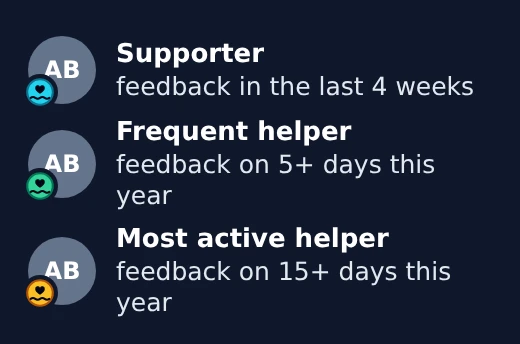
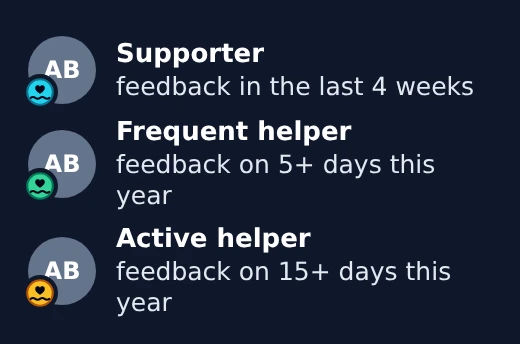
Supporter: Label "Badge" auf der Profilseite, Stufe 3 heisst "Active helper"
Claude-Session: https://claude.ai/code/session_01SwpsW3PioXLbF9Wo2iJrfq

Changed region(s): [[0.2154, 0.6395, 0.7692, 0.7558]]

diff --git a/android/app/src/main/java/org/pumpfoil/app/I18nNeu.kt b/android/app/src/main/java/org/pumpfoil/app/I18nNeu.kt
@@ -295,10 +295,11 @@ internal val NEU: Map<String, Map<String, String>> = mapOf(
     "rate.rated" to mapOf("de" to "Deine Bewertung", "gsw" to "Dini Bewärtig", "de-AT" to "Deine Bewertung", "en" to "Your rating", "fr" to "Ton évaluation", "it" to "La tua valutazione", "es" to "Tu valoración", "fi" to "Arviosi", "nl" to "Jouw beoordeling", "cs" to "Tvoje hodnocení", "pl" to "Twoja ocena", "pt" to "Sua avaliação", "pt-PT" to "A tua avaliação", "ja" to "あなたの評価", "zh" to "你的评价", "ru" to "Твоя оценка", "id" to "Penilaianmu", "nb" to "Din vurdering"),
     "sup.badge" to mapOf("de" to "Danke für wertvolles Feedback in den letzten 4 Wochen", "gsw" to "Merci für wertvolls Feedback i de letschte 4 Wuche", "de-AT" to "Danke für wertvolles Feedback in den letzten 4 Wochen", "en" to "Thanks for valuable feedback within the last 4 weeks", "fr" to "Merci pour tes retours précieux ces 4 dernières semaines", "it" to "Grazie per il prezioso feedback nelle ultime 4 settimane", "es" to "Gracias por tus valiosos comentarios en las últimas 4 semanas", "fi" to "Kiitos arvokkaasta palautteesta viimeisten 4 viikon aikana", "nl" to "Bedankt voor waardevolle feedback in de afgelopen 4 weken", "cs" to "Díky za cennou zpětnou vazbu za poslední 4 týdny", "pl" to "Dzięki za cenne opinie w ostatnich 4 tygodniach", "pt" to "Obrigado pelo feedback valioso nas últimas 4 semanas", "pt-PT" to "Obrigado pelo feedback valioso nas últimas 4 semanas", "ja" to "この4週間、貴重なフィードバックをありがとう", "zh" to "感谢你在过去 4 周提供的宝贵反馈", "ru" to "Спасибо за ценные отзывы за последние 4 недели", "id" to "Terima kasih atas masukan berharga dalam 4 minggu terakhir", "nb" to "Takk for verdifulle tilbakemeldinger de siste 4 ukene"),
     "sup.level2" to mapOf("de" to "fleißige Hilfe", "gsw" to "flissigi Hilf", "de-AT" to "fleißige Hilfe", "en" to "frequent helper", "fr" to "aide régulière", "it" to "aiuto assiduo", "es" to "ayuda frecuente", "fi" to "ahkera auttaja", "nl" to "vaste helper", "cs" to "pilný pomocník", "pl" to "częsty pomocnik", "pt" to "ajuda frequente", "pt-PT" to "ajuda frequente", "ja" to "いつも協力してくれる人", "zh" to "热心帮手", "ru" to "частый помощник", "id" to "penolong setia", "nb" to "ivrig hjelper"),
-    "sup.level3" to mapOf("de" to "eine unserer aktivsten Hilfen", "gsw" to "eini vo eusne aktivste Hilfe", "de-AT" to "eine unserer aktivsten Hilfen", "en" to "one of our most active helpers", "fr" to "l'une de nos aides les plus actives", "it" to "uno dei nostri aiuti più attivi", "es" to "una de nuestras ayudas más activas", "fi" to "yksi aktiivisimmista auttajistamme", "nl" to "een van onze actiefste helpers", "cs" to "jeden z našich nejaktivnějších pomocníků", "pl" to "jeden z naszych najaktywniejszych pomocników", "pt" to "uma das nossas ajudas mais ativas", "pt-PT" to "uma das nossas ajudas mais ativas", "ja" to "最も活発な協力者のひとり", "zh" to "最活跃的帮手之一", "ru" to "один из самых активных помощников", "id" to "salah satu penolong paling aktif", "nb" to "en av våre mest aktive hjelpere"),
+    "sup.level3" to mapOf("de" to "aktive Hilfe", "gsw" to "aktivi Hilf", "de-AT" to "aktive Hilfe", "en" to "active helper", "fr" to "aide active", "it" to "aiuto attivo", "es" to "ayuda activa", "fi" to "aktiivinen auttaja", "nl" to "actieve helper", "cs" to "aktivní pomocník", "pl" to "aktywny pomocnik", "pt" to "ajuda ativa", "pt-PT" to "ajuda ativa", "ja" to "積極的な協力者", "zh" to "积极帮手", "ru" to "активный помощник", "id" to "penolong aktif", "nb" to "aktiv hjelper"),
+    "sup.label" to mapOf("de" to "Badge", "gsw" to "Badge", "de-AT" to "Badge", "en" to "Badge", "fr" to "Badge", "it" to "Badge", "es" to "Insignia", "fi" to "Merkki", "nl" to "Badge", "cs" to "Odznak", "pl" to "Odznaka", "pt" to "Selo", "pt-PT" to "Distintivo", "ja" to "バッジ", "zh" to "徽章", "ru" to "Значок", "id" to "Lencana", "nb" to "Merke"),
     "sup.profile1" to mapOf("de" to "Hat uns in den letzten 4 Wochen mit Feedback geholfen", "gsw" to "Het eus i de letschte 4 Wuche mit Feedback ghulfe", "de-AT" to "Hat uns in den letzten 4 Wochen mit Feedback geholfen", "en" to "Helped us with feedback in the last 4 weeks", "fr" to "Nous a aidés avec ses retours ces 4 dernières semaines", "it" to "Ci ha aiutato con il suo feedback nelle ultime 4 settimane", "es" to "Nos ayudó con sus comentarios en las últimas 4 semanas", "fi" to "Auttoi meitä palautteella viimeisten 4 viikon aikana", "nl" to "Hielp ons met feedback in de afgelopen 4 weken", "cs" to "Pomohl nám zpětnou vazbou za poslední 4 týdny", "pl" to "Pomógł nam swoimi opiniami w ostatnich 4 tygodniach", "pt" to "Nos ajudou com feedback nas últimas 4 semanas", "pt-PT" to "Ajudou-nos com feedback nas últimas 4 semanas", "ja" to "この4週間にフィードバックで協力してくれました", "zh" to "在过去 4 周提供过反馈", "ru" to "Помог нам отзывами за последние 4 недели", "id" to "Membantu kami dengan masukan dalam 4 minggu terakhir", "nb" to "Hjalp oss med tilbakemeldinger de siste 4 ukene"),
     "sup.profile2" to mapOf("de" to "Fleißige Hilfe: Feedback an 5 oder mehr Tagen in diesem Jahr, zuletzt in den letzten 4 Wochen", "gsw" to "Flissigi Hilf: Feedback a 5 oder meh Täg i dem Johr, zletscht i de letschte 4 Wuche", "de-AT" to "Fleißige Hilfe: Feedback an 5 oder mehr Tagen in diesem Jahr, zuletzt in den letzten 4 Wochen", "en" to "Frequent helper: feedback on 5 or more days this year, most recently in the last 4 weeks", "fr" to "Aide régulière : des retours sur 5 jours ou plus cette année, dont les 4 dernières semaines", "it" to "Aiuto assiduo: feedback in 5 o più giorni quest'anno, l'ultimo nelle ultime 4 settimane", "es" to "Ayuda frecuente: comentarios en 5 o más días este año, el último en las últimas 4 semanas", "fi" to "Ahkera auttaja: palautetta vähintään 5 päivänä tänä vuonna, viimeksi viimeisten 4 viikon aikana", "nl" to "Vaste helper: feedback op 5 of meer dagen dit jaar, het laatst in de afgelopen 4 weken", "cs" to "Pilný pomocník: zpětná vazba v 5 a více dnech letos, naposledy za poslední 4 týdny", "pl" to "Częsty pomocnik: opinie w 5 lub więcej dni w tym roku, ostatnio w ostatnich 4 tygodniach", "pt" to "Ajuda frequente: feedback em 5 ou mais dias neste ano, o último nas últimas 4 semanas", "pt-PT" to "Ajuda frequente: feedback em 5 ou mais dias este ano, o último nas últimas 4 semanas", "ja" to "いつも協力してくれる人：今年5日以上フィードバック、直近は4週間以内", "zh" to "热心帮手：今年有 5 天或以上提供反馈，最近一次在过去 4 周内", "ru" to "Частый помощник: отзывы в 5 и более дней в этом году, последний за последние 4 недели", "id" to "Penolong setia: masukan pada 5 hari atau lebih tahun ini, terakhir dalam 4 minggu terakhir", "nb" to "Ivrig hjelper: tilbakemeldinger på 5 eller flere dager i år, sist de siste 4 ukene"),
-    "sup.profile3" to mapOf("de" to "Eine unserer aktivsten Hilfen: Feedback an 15 oder mehr Tagen in diesem Jahr, zuletzt in den letzten 4 Wochen", "gsw" to "Eini vo eusne aktivste Hilfe: Feedback a 15 oder meh Täg i dem Johr, zletscht i de letschte 4 Wuche", "de-AT" to "Eine unserer aktivsten Hilfen: Feedback an 15 oder mehr Tagen in diesem Jahr, zuletzt in den letzten 4 Wochen", "en" to "One of our most active helpers: feedback on 15 or more days this year, most recently in the last 4 weeks", "fr" to "L'une de nos aides les plus actives : des retours sur 15 jours ou plus cette année, dont les 4 dernières semaines", "it" to "Uno dei nostri aiuti più attivi: feedback in 15 o più giorni quest'anno, l'ultimo nelle ultime 4 settimane", "es" to "Una de nuestras ayudas más activas: comentarios en 15 o más días este año, el último en las últimas 4 semanas", "fi" to "Yksi aktiivisimmista auttajistamme: palautetta vähintään 15 päivänä tänä vuonna, viimeksi viimeisten 4 viikon aikana", "nl" to "Een van onze actiefste helpers: feedback op 15 of meer dagen dit jaar, het laatst in de afgelopen 4 weken", "cs" to "Jeden z našich nejaktivnějších pomocníků: zpětná vazba v 15 a více dnech letos, naposledy za poslední 4 týdny", "pl" to "Jeden z naszych najaktywniejszych pomocników: opinie w 15 lub więcej dni w tym roku, ostatnio w ostatnich 4 tygodniach", "pt" to "Uma das nossas ajudas mais ativas: feedback em 15 ou mais dias neste ano, o último nas últimas 4 semanas", "pt-PT" to "Uma das nossas ajudas mais ativas: feedback em 15 ou mais dias este ano, o último nas últimas 4 semanas", "ja" to "最も活発な協力者のひとり：今年15日以上フィードバック、直近は4週間以内", "zh" to "最活跃的帮手之一：今年有 15 天或以上提供反馈，最近一次在过去 4 周内", "ru" to "Один из самых активных помощников: отзывы в 15 и более дней в этом году, последний за последние 4 недели", "id" to "Salah satu penolong paling aktif: masukan pada 15 hari atau lebih tahun ini, terakhir dalam 4 minggu terakhir", "nb" to "En av våre mest aktive hjelpere: tilbakemeldinger på 15 eller flere dager i år, sist de siste 4 ukene"),
+    "sup.profile3" to mapOf("de" to "Aktive Hilfe: Feedback an 15 oder mehr Tagen in diesem Jahr, zuletzt in den letzten 4 Wochen", "gsw" to "Aktivi Hilf: Feedback a 15 oder meh Täg i dem Johr, zletscht i de letschte 4 Wuche", "de-AT" to "Aktive Hilfe: Feedback an 15 oder mehr Tagen in diesem Jahr, zuletzt in den letzten 4 Wochen", "en" to "Active helper: feedback on 15 or more days this year, most recently in the last 4 weeks", "fr" to "Aide active: des retours sur 15 jours ou plus cette année, dont les 4 dernières semaines", "it" to "Aiuto attivo: feedback in 15 o più giorni quest'anno, l'ultimo nelle ultime 4 settimane", "es" to "Ayuda activa: comentarios en 15 o más días este año, el último en las últimas 4 semanas", "fi" to "Aktiivinen auttaja: palautetta vähintään 15 päivänä tänä vuonna, viimeksi viimeisten 4 viikon aikana", "nl" to "Actieve helper: feedback op 15 of meer dagen dit jaar, het laatst in de afgelopen 4 weken", "cs" to "Aktivní pomocník: zpětná vazba v 15 a více dnech letos, naposledy za poslední 4 týdny", "pl" to "Aktywny pomocnik: opinie w 15 lub więcej dni w tym roku, ostatnio w ostatnich 4 tygodniach", "pt" to "Ajuda ativa: feedback em 15 ou mais dias neste ano, o último nas últimas 4 semanas", "pt-PT" to "Ajuda ativa: feedback em 15 ou mais dias este ano, o último nas últimas 4 semanas", "ja" to "積極的な協力者：今年15日以上フィードバック、直近は4週間以内", "zh" to "积极帮手：今年有 15 天或以上提供反馈，最近一次在过去 4 周内", "ru" to "Активный помощник: отзывы в 15 и более дней в этом году, последний за последние 4 недели", "id" to "Penolong aktif: masukan pada 15 hari atau lebih tahun ini, terakhir dalam 4 minggu terakhir", "nb" to "Aktiv hjelper: tilbakemeldinger på 15 eller flere dager i år, sist de siste 4 ukene"),
     "rate.recheckTile" to mapOf("de" to "Bitte neu bewerten", "gsw" to "Bitte nomal bewärte", "de-AT" to "Bitte neu bewerten", "en" to "Please rate again", "fr" to "À réévaluer", "it" to "Valuta di nuovo", "es" to "Valora de nuevo", "fi" to "Arvioi uudelleen", "nl" to "Beoordeel opnieuw", "cs" to "Ohodnoť znovu", "pl" to "Oceń ponownie", "pt" to "Avalie de novo", "pt-PT" to "Avalia de novo", "ja" to "もう一度評価して", "zh" to "请重新评价", "ru" to "Оцени заново", "id" to "Nilai lagi", "nb" to "Vurder på nytt"),
     "rate.recheck" to mapOf("de" to "Wir haben uns deine Bewertung angesehen und etwas verbessert. Bitte prüf die Auswertung und bewerte sie neu.", "gsw" to "Mir händ eus dini Bewärtig aagluegt und öppis verbesseret. Bitte prüef d Uswärtig und bewärt sie nomal.", "de-AT" to "Wir haben uns deine Bewertung angeschaut und etwas verbessert. Bitte prüf die Auswertung und bewerte sie neu.", "en" to "We looked into your rating and improved something. Please check the analysis and rate it again.", "fr" to "Nous avons examiné ton évaluation et amélioré quelque chose. Vérifie l'analyse et évalue-la à nouveau.", "it" to "Abbiamo esaminato la tua valutazione e migliorato qualcosa. Controlla l'analisi e valutala di nuovo.", "es" to "Hemos revisado tu valoración y mejorado algo. Comprueba el análisis y vuelve a valorarlo.", "fi" to "Kävimme arviosi läpi ja paransimme jotain. Tarkista analyysi ja arvioi se uudelleen.", "nl" to "We hebben je beoordeling bekeken en iets verbeterd. Controleer de analyse en beoordeel hem opnieuw.", "cs" to "Podívali jsme se na tvoje hodnocení a něco jsme vylepšili. Zkontroluj prosím analýzu a ohodnoť ji znovu.", "pl" to "Przejrzeliśmy twoją ocenę i coś poprawiliśmy. Sprawdź analizę i oceń ją ponownie.", "pt" to "Analisamos sua avaliação e melhoramos algo. Confira a análise e avalie de novo.", "pt-PT" to "Analisámos a tua avaliação e melhorámos algo. Verifica a análise e avalia-a de novo.", "ja" to "評価を確認し、改善しました。分析を確認して、もう一度評価してください。", "zh" to "我们查看了你的评价并做了改进。请检查分析结果并重新评价。", "ru" to "Мы посмотрели твою оценку и кое-что улучшили. Проверь анализ и оцени его заново.", "id" to "Kami sudah melihat penilaianmu dan memperbaiki sesuatu. Silakan cek analisisnya dan nilai lagi.", "nb" to "Vi har sett på vurderingen din og forbedret noe. Sjekk analysen og vurder den på nytt."),
     "rate.runs" to mapOf("de" to "Läufe", "gsw" to "Läuf", "de-AT" to "Läufe", "en" to "Runs", "fr" to "Runs", "it" to "Run", "es" to "Runs", "fi" to "Ajot", "nl" to "Runs", "cs" to "Jízdy", "pl" to "Przejazdy", "pt" to "Voltas", "pt-PT" to "Voltas", "ja" to "ラン", "zh" to "航段", "ru" to "Заезды", "id" to "Run", "nb" to "Runs"),

diff --git a/watch-apple/Sources-iOS/Loc.swift b/watch-apple/Sources-iOS/Loc.swift
@@ -4798,8 +4798,9 @@ static let nlOverlay: [String: String] = {
     private static let _neu6_rate_pumps_weiss_nicht: [String: String] = ["de": "weiß nicht", "gsw": "weiss nöd", "de-AT": "weiß nicht", "en": "don't know", "fr": "je ne sais pas", "it": "non so", "es": "no lo sé", "fi": "en tiedä", "nl": "weet ik niet", "cs": "nevím", "pl": "nie wiem", "pt": "não sei", "pt-PT": "não sei", "ja": "わからない", "zh": "不知道", "ru": "не знаю", "id": "tidak tahu", "nb": "vet ikke"]
     private static let _neu6_rate_pumps_wenig: [String: String] = ["de": "zu wenige", "gsw": "z wenig", "de-AT": "zu wenige", "en": "too few", "fr": "trop peu", "it": "troppo pochi", "es": "muy pocos", "fi": "liian vähän", "nl": "te weinig", "cs": "příliš málo", "pl": "za mało", "pt": "poucos demais", "pt-PT": "demasiado poucos", "ja": "少なすぎる", "zh": "太少", "ru": "слишком мало", "id": "terlalu sedikit", "nb": "for få"]
     private static let _neu6_rate_rated: [String: String] = ["de": "Deine Bewertung", "gsw": "Dini Bewärtig", "de-AT": "Deine Bewertung", "en": "Your rating", "fr": "Ton évaluation", "it": "La tua valutazione", "es": "Tu valoración", "fi": "Arviosi", "nl": "Jouw beoordeling", "cs": "Tvoje hodnocení", "pl": "Twoja ocena", "pt": "Sua avaliação", "pt-PT": "A tua avaliação", "ja": "あなたの評価", "zh": "你的评价", "ru": "Твоя оценка", "id": "Penilaianmu", "nb": "Din vurdering"]
-    private static let _neu7_sup_level3: [String: String] = ["de": "eine unserer aktivsten Hilfen", "gsw": "eini vo eusne aktivste Hilfe", "de-AT": "eine unserer aktivsten Hilfen", "en": "one of our most active helpers", "fr": "l'une de nos aides les plus actives", "it": "uno dei nostri aiuti più attivi", "es": "una de nuestras ayudas más activas", "fi": "yksi aktiivisimmista auttajistamme", "nl": "een van onze actiefste helpers", "cs": "jeden z našich nejaktivnějších pomocníků", "pl": "jeden z naszych najaktywniejszych pomocników", "pt": "uma das nossas ajudas mais ativas", "pt-PT": "uma das nossas ajudas mais ativas", "ja": "最も活発な協力者のひとり", "zh": "最活跃的帮手之一", "ru": "один из самых активных помощников", "id": "salah satu penolong paling aktif", "nb": "en av våre mest aktive hjelpere"]
-    private static let _neu7_sup_profile3: [String: String] = ["de": "Eine unserer aktivsten Hilfen: Feedback an 15 oder mehr Tagen in diesem Jahr, zuletzt in den letzten 4 Wochen", "gsw": "Eini vo eusne aktivste Hilfe: Feedback a 15 oder meh Täg i dem Johr, zletscht i de letschte 4 Wuche", "de-AT": "Eine unserer aktivsten Hilfen: Feedback an 15 oder mehr Tagen in diesem Jahr, zuletzt in den letzten 4 Wochen", "en": "One of our most active helpers: feedback on 15 or more days this year, most recently in the last 4 weeks", "fr": "L'une de nos aides les plus actives : des retours sur 15 jours ou plus cette année, dont les 4 dernières semaines", "it": "Uno dei nostri aiuti più attivi: feedback in 15 o più giorni quest'anno, l'ultimo nelle ultime 4 settimane", "es": "Una de nuestras ayudas más activas: comentarios en 15 o más días este año, el último en las últimas 4 semanas", "fi": "Yksi aktiivisimmista auttajistamme: palautetta vähintään 15 päivänä tänä vuonna, viimeksi viimeisten 4 viikon aikana", "nl": "Een van onze actiefste helpers: feedback op 15 of meer dagen dit jaar, het laatst in de afgelopen 4 weken", "cs": "Jeden z našich nejaktivnějších pomocníků: zpětná vazba v 15 a více dnech letos, naposledy za poslední 4 týdny", "pl": "Jeden z naszych najaktywniejszych pomocników: opinie w 15 lub więcej dni w tym roku, ostatnio w ostatnich 4 tygodniach", "pt": "Uma das nossas ajudas mais ativas: feedback em 15 ou mais dias neste ano, o último nas últimas 4 semanas", "pt-PT": "Uma das nossas ajudas mais ativas: feedback em 15 ou mais dias este ano, o último nas últimas 4 semanas", "ja": "最も活発な協力者のひとり：今年15日以上フィードバック、直近は4週間以内", "zh": "最活跃的帮手之一：今年有 15 天或以上提供反馈，最近一次在过去 4 周内", "ru": "Один из самых активных помощников: отзывы в 15 и более дней в этом году, последний за последние 4 недели", "id": "Salah satu penolong paling aktif: masukan pada 15 hari atau lebih tahun ini, terakhir dalam 4 minggu terakhir", "nb": "En av våre mest aktive hjelpere: tilbakemeldinger på 15 eller flere dager i år, sist de siste 4 ukene"]
+    private static let _neu7_sup_level3: [String: String] = ["de": "aktive Hilfe", "gsw": "aktivi Hilf", "de-AT": "aktive Hilfe", "en": "active helper", "fr": "aide active", "it": "aiuto attivo", "es": "ayuda activa", "fi": "aktiivinen auttaja", "nl": "actieve helper", "cs": "aktivní pomocník", "pl": "aktywny pomocnik", "pt": "ajuda ativa", "pt-PT": "ajuda ativa", "ja": "積極的な協力者", "zh": "积极帮手", "ru": "активный помощник", "id": "penolong aktif", "nb": "aktiv hjelper"]
+    private static let _neu7_sup_label: [String: String] = ["de": "Badge", "gsw": "Badge", "de-AT": "Badge", "en": "Badge", "fr": "Badge", "it": "Badge", "es": "Insignia", "fi": "Merkki", "nl": "Badge", "cs": "Odznak", "pl": "Odznaka", "pt": "Selo", "pt-PT": "Distintivo", "ja": "バッジ", "zh": "徽章", "ru": "Значок", "id": "Lencana", "nb": "Merke"]
+    private static let _neu7_sup_profile3: [String: String] = ["de": "Aktive Hilfe: Feedback an 15 oder mehr Tagen in diesem Jahr, zuletzt in den letzten 4 Wochen", "gsw": "Aktivi Hilf: Feedback a 15 oder meh Täg i dem Johr, zletscht i de letschte 4 Wuche", "de-AT": "Aktive Hilfe: Feedback an 15 oder mehr Tagen in diesem Jahr, zuletzt in den letzten 4 Wochen", "en": "Active helper: feedback on 15 or more days this year, most recently in the last 4 weeks", "fr": "Aide active: des retours sur 15 jours ou plus cette année, dont les 4 dernières semaines", "it": "Aiuto attivo: feedback in 15 o più giorni quest'anno, l'ultimo nelle ultime 4 settimane", "es": "Ayuda activa: comentarios en 15 o más días este año, el último en las últimas 4 semanas", "fi": "Aktiivinen auttaja: palautetta vähintään 15 päivänä tänä vuonna, viimeksi viimeisten 4 viikon aikana", "nl": "Actieve helper: feedback op 15 of meer dagen dit jaar, het laatst in de afgelopen 4 weken", "cs": "Aktivní pomocník: zpětná vazba v 15 a více dnech letos, naposledy za poslední 4 týdny", "pl": "Aktywny pomocnik: opinie w 15 lub więcej dni w tym roku, ostatnio w ostatnich 4 tygodniach", "pt": "Ajuda ativa: feedback em 15 ou mais dias neste ano, o último nas últimas 4 semanas", "pt-PT": "Ajuda ativa: feedback em 15 ou mais dias este ano, o último nas últimas 4 semanas", "ja": "積極的な協力者：今年15日以上フィードバック、直近は4週間以内", "zh": "积极帮手：今年有 15 天或以上提供反馈，最近一次在过去 4 周内", "ru": "Активный помощник: отзывы в 15 и более дней в этом году, последний за последние 4 недели", "id": "Penolong aktif: masukan pada 15 hari atau lebih tahun ini, terakhir dalam 4 minggu terakhir", "nb": "Aktiv hjelper: tilbakemeldinger på 15 eller flere dager i år, sist de siste 4 ukene"]
     private static let _neu7_sup_profile2: [String: String] = ["de": "Fleißige Hilfe: Feedback an 5 oder mehr Tagen in diesem Jahr, zuletzt in den letzten 4 Wochen", "gsw": "Flissigi Hilf: Feedback a 5 oder meh Täg i dem Johr, zletscht i de letschte 4 Wuche", "de-AT": "Fleißige Hilfe: Feedback an 5 oder mehr Tagen in diesem Jahr, zuletzt in den letzten 4 Wochen", "en": "Frequent helper: feedback on 5 or more days this year, most recently in the last 4 weeks", "fr": "Aide régulière : des retours sur 5 jours ou plus cette année, dont les 4 dernières semaines", "it": "Aiuto assiduo: feedback in 5 o più giorni quest'anno, l'ultimo nelle ultime 4 settimane", "es": "Ayuda frecuente: comentarios en 5 o más días este año, el último en las últimas 4 semanas", "fi": "Ahkera auttaja: palautetta vähintään 5 päivänä tänä vuonna, viimeksi viimeisten 4 viikon aikana", "nl": "Vaste helper: feedback op 5 of meer dagen dit jaar, het laatst in de afgelopen 4 weken", "cs": "Pilný pomocník: zpětná vazba v 5 a více dnech letos, naposledy za poslední 4 týdny", "pl": "Częsty pomocnik: opinie w 5 lub więcej dni w tym roku, ostatnio w ostatnich 4 tygodniach", "pt": "Ajuda frequente: feedback em 5 ou mais dias neste ano, o último nas últimas 4 semanas", "pt-PT": "Ajuda frequente: feedback em 5 ou mais dias este ano, o último nas últimas 4 semanas", "ja": "いつも協力してくれる人：今年5日以上フィードバック、直近は4週間以内", "zh": "热心帮手：今年有 5 天或以上提供反馈，最近一次在过去 4 周内", "ru": "Частый помощник: отзывы в 5 и более дней в этом году, последний за последние 4 недели", "id": "Penolong setia: masukan pada 5 hari atau lebih tahun ini, terakhir dalam 4 minggu terakhir", "nb": "Ivrig hjelper: tilbakemeldinger på 5 eller flere dager i år, sist de siste 4 ukene"]
     private static let _neu7_sup_profile1: [String: String] = ["de": "Hat uns in den letzten 4 Wochen mit Feedback geholfen", "gsw": "Het eus i de letschte 4 Wuche mit Feedback ghulfe", "de-AT": "Hat uns in den letzten 4 Wochen mit Feedback geholfen", "en": "Helped us with feedback in the last 4 weeks", "fr": "Nous a aidés avec ses retours ces 4 dernières semaines", "it": "Ci ha aiutato con il suo feedback nelle ultime 4 settimane", "es": "Nos ayudó con sus comentarios en las últimas 4 semanas", "fi": "Auttoi meitä palautteella viimeisten 4 viikon aikana", "nl": "Hielp ons met feedback in de afgelopen 4 weken", "cs": "Pomohl nám zpětnou vazbou za poslední 4 týdny", "pl": "Pomógł nam swoimi opiniami w ostatnich 4 tygodniach", "pt": "Nos ajudou com feedback nas últimas 4 semanas", "pt-PT": "Ajudou-nos com feedback nas últimas 4 semanas", "ja": "この4週間にフィードバックで協力してくれました", "zh": "在过去 4 周提供过反馈", "ru": "Помог нам отзывами за последние 4 недели", "id": "Membantu kami dengan masukan dalam 4 minggu terakhir", "nb": "Hjalp oss med tilbakemeldinger de siste 4 ukene"]
     private static let _neu7_sup_level2: [String: String] = ["de": "fleißige Hilfe", "gsw": "flissigi Hilf", "de-AT": "fleißige Hilfe", "en": "frequent helper", "fr": "aide régulière", "it": "aiuto assiduo", "es": "ayuda frecuente", "fi": "ahkera auttaja", "nl": "vaste helper", "cs": "pilný pomocník", "pl": "częsty pomocnik", "pt": "ajuda frequente", "pt-PT": "ajuda frequente", "ja": "いつも協力してくれる人", "zh": "热心帮手", "ru": "частый помощник", "id": "penolong setia", "nb": "ivrig hjelper"]
@@ -4841,6 +4842,7 @@ static let nlOverlay: [String: String] = {
         "rate.pumps.wenig": _neu6_rate_pumps_wenig,
         "rate.rated": _neu6_rate_rated,
         "sup.level3": _neu7_sup_level3,
+        "sup.label": _neu7_sup_label,
         "sup.profile3": _neu7_sup_profile3,
         "sup.profile2": _neu7_sup_profile2,
         "sup.profile1": _neu7_sup_profile1,

diff --git a/web/src/i18n/locales/ru.ts b/web/src/i18n/locales/ru.ts
@@ -950,10 +950,11 @@ const ru: Record<string, string> = {
   "presence.online": "В сети",
   "sup.badge": "Спасибо за ценные отзывы за последние 4 недели",
   "sup.level2": "частый помощник",
-  "sup.level3": "один из самых активных помощников",
+  "sup.level3": "активный помощник",
+  "sup.label": "Значок",
   "sup.profile1": "Помог нам отзывами за последние 4 недели",
   "sup.profile2": "Частый помощник: отзывы в 5 и более дней в этом году, последний за последние 4 недели",
-  "sup.profile3": "Один из самых активных помощников: отзывы в 15 и более дней в этом году, последний за последние 4 недели",
+  "sup.profile3": "Активный помощник: отзывы в 15 и более дней в этом году, последний за последние 4 недели",
   "online.title": "Значок «в сети»",
   "online.hint": "Пока у тебя открыто приложение или сайт, другие видят маленькую зелёную точку на твоём фото профиля.",
   "online.switch": "Показывать другим, когда я в сети",

diff --git a/web/src/i18n/locales/ja.ts b/web/src/i18n/locales/ja.ts
@@ -950,10 +950,11 @@ const ja: Record<string, string> = {
   "presence.online": "オンライン",
   "sup.badge": "この4週間、貴重なフィードバックをありがとう",
   "sup.level2": "いつも協力してくれる人",
-  "sup.level3": "最も活発な協力者のひとり",
+  "sup.level3": "積極的な協力者",
+  "sup.label": "バッジ",
   "sup.profile1": "この4週間にフィードバックで協力してくれました",
   "sup.profile2": "いつも協力してくれる人：今年5日以上フィードバック、直近は4週間以内",
-  "sup.profile3": "最も活発な協力者のひとり：今年15日以上フィードバック、直近は4週間以内",
+  "sup.profile3": "積極的な協力者：今年15日以上フィードバック、直近は4週間以内",
   "online.title": "オンライン表示",
   "online.hint": "アプリやサイトを開いている間、他の人にはプロフィール画像に小さな緑の点が表示されます。",
   "online.switch": "オンライン中であることを他の人に表示する",

diff --git a/web/src/i18n/locales/fi.ts b/web/src/i18n/locales/fi.ts
@@ -957,10 +957,11 @@ const fi: Record<string, string> = {
   "presence.online": "Paikalla",
   "sup.badge": "Kiitos arvokkaasta palautteesta viimeisten 4 viikon aikana",
   "sup.level2": "ahkera auttaja",
-  "sup.level3": "yksi aktiivisimmista auttajistamme",
+  "sup.level3": "aktiivinen auttaja",
+  "sup.label": "Merkki",
   "sup.profile1": "Auttoi meitä palautteella viimeisten 4 viikon aikana",
   "sup.profile2": "Ahkera auttaja: palautetta vähintään 5 päivänä tänä vuonna, viimeksi viimeisten 4 viikon aikana",
-  "sup.profile3": "Yksi aktiivisimmista auttajistamme: palautetta vähintään 15 päivänä tänä vuonna, viimeksi viimeisten 4 viikon aikana",
+  "sup.profile3": "Aktiivinen auttaja: palautetta vähintään 15 päivänä tänä vuonna, viimeksi viimeisten 4 viikon aikana",
   "online.title": "Paikalla-piste",
   "online.hint": "Kun sovellus tai sivusto on auki, muut näkevät pienen vihreän pisteen profiilikuvassasi.",
   "online.switch": "Näytä muille, kun olen paikalla",

diff --git a/web/src/i18n/locales/es.ts b/web/src/i18n/locales/es.ts
@@ -843,10 +843,11 @@ const es: Record<string, string> = {
   "presence.online": "En línea",
   "sup.badge": "Gracias por tus valiosos comentarios en las últimas 4 semanas",
   "sup.level2": "ayuda frecuente",
-  "sup.level3": "una de nuestras ayudas más activas",
+  "sup.level3": "ayuda activa",
+  "sup.label": "Insignia",
   "sup.profile1": "Nos ayudó con sus comentarios en las últimas 4 semanas",
   "sup.profile2": "Ayuda frecuente: comentarios en 5 o más días este año, el último en las últimas 4 semanas",
-  "sup.profile3": "Una de nuestras ayudas más activas: comentarios en 15 o más días este año, el último en las últimas 4 semanas",
+  "sup.profile3": "Ayuda activa: comentarios en 15 o más días este año, el último en las últimas 4 semanas",
   "online.title": "Punto en línea",
   "online.hint": "Mientras tengas la app o la web abiertas, los demás ven un pequeño punto verde en tu foto de perfil.",
   "online.switch": "Mostrar a los demás cuando estoy en línea",

diff --git a/web/src/i18n/locales/cs.ts b/web/src/i18n/locales/cs.ts
@@ -974,10 +974,11 @@ const cs: Record<string, string> = {
   "presence.online": "Online",
   "sup.badge": "Díky za cennou zpětnou vazbu za poslední 4 týdny",
   "sup.level2": "pilný pomocník",
-  "sup.level3": "jeden z našich nejaktivnějších pomocníků",
+  "sup.level3": "aktivní pomocník",
+  "sup.label": "Odznak",
   "sup.profile1": "Pomohl nám zpětnou vazbou za poslední 4 týdny",
   "sup.profile2": "Pilný pomocník: zpětná vazba v 5 a více dnech letos, naposledy za poslední 4 týdny",
-  "sup.profile3": "Jeden z našich nejaktivnějších pomocníků: zpětná vazba v 15 a více dnech letos, naposledy za poslední 4 týdny",
+  "sup.profile3": "Aktivní pomocník: zpětná vazba v 15 a více dnech letos, naposledy za poslední 4 týdny",
   "online.title": "Online tečka",
   "online.hint": "Dokud máš otevřenou aplikaci nebo web, ostatní vidí u tvého profilového obrázku malou zelenou tečku.",
   "online.switch": "Ukázat ostatním, když jsem online",

diff --git a/web/src/i18n/locales/pl.ts b/web/src/i18n/locales/pl.ts
@@ -1065,10 +1065,11 @@ const pl: Record<string, string> = {
   "presence.online": "Online",
   "sup.badge": "Dzięki za cenne opinie w ostatnich 4 tygodniach",
   "sup.level2": "częsty pomocnik",
-  "sup.level3": "jeden z naszych najaktywniejszych pomocników",
+  "sup.level3": "aktywny pomocnik",
+  "sup.label": "Odznaka",
   "sup.profile1": "Pomógł nam swoimi opiniami w ostatnich 4 tygodniach",
   "sup.profile2": "Częsty pomocnik: opinie w 5 lub więcej dni w tym roku, ostatnio w ostatnich 4 tygodniach",
-  "sup.profile3": "Jeden z naszych najaktywniejszych pomocników: opinie w 15 lub więcej dni w tym roku, ostatnio w ostatnich 4 tygodniach",
+  "sup.profile3": "Aktywny pomocnik: opinie w 15 lub więcej dni w tym roku, ostatnio w ostatnich 4 tygodniach",
   "online.title": "Kropka online",
   "online.hint": "Gdy masz otwartą aplikację lub stronę, inni widzą małą zieloną kropkę przy twoim zdjęciu profilowym.",
   "online.switch": "Pokazuj innym, kiedy jestem online",

diff --git a/web/src/i18n/locales/fr.ts b/web/src/i18n/locales/fr.ts
@@ -843,10 +843,11 @@ const fr: Record<string, string> = {
   "presence.online": "En ligne",
   "sup.badge": "Merci pour tes retours précieux ces 4 dernières semaines",
   "sup.level2": "aide régulière",
-  "sup.level3": "l'une de nos aides les plus actives",
+  "sup.level3": "aide active",
+  "sup.label": "Badge",
   "sup.profile1": "Nous a aidés avec ses retours ces 4 dernières semaines",
   "sup.profile2": "Aide régulière : des retours sur 5 jours ou plus cette année, dont les 4 dernières semaines",
-  "sup.profile3": "L'une de nos aides les plus actives : des retours sur 15 jours ou plus cette année, dont les 4 dernières semaines",
+  "sup.profile3": "Aide active: des retours sur 15 jours ou plus cette année, dont les 4 dernières semaines",
   "online.title": "Point en ligne",
   "online.hint": "Tant que l'appli ou le site est ouvert, les autres voient un petit point vert sur ta photo de profil.",
   "online.switch": "Montrer aux autres quand je suis en ligne",

diff --git a/web/src/i18n/locales/de-AT.ts b/web/src/i18n/locales/de-AT.ts
@@ -744,10 +744,11 @@ const deAT: Record<string, string> = {
   "presence.online": "Online",
   "sup.badge": "Danke für wertvolles Feedback in den letzten 4 Wochen",
   "sup.level2": "fleißige Hilfe",
-  "sup.level3": "eine unserer aktivsten Hilfen",
+  "sup.level3": "aktive Hilfe",
+  "sup.label": "Badge",
   "sup.profile1": "Hat uns in den letzten 4 Wochen mit Feedback geholfen",
   "sup.profile2": "Fleißige Hilfe: Feedback an 5 oder mehr Tagen in diesem Jahr, zuletzt in den letzten 4 Wochen",
-  "sup.profile3": "Eine unserer aktivsten Hilfen: Feedback an 15 oder mehr Tagen in diesem Jahr, zuletzt in den letzten 4 Wochen",
+  "sup.profile3": "Aktive Hilfe: Feedback an 15 oder mehr Tagen in diesem Jahr, zuletzt in den letzten 4 Wochen",
   "online.title": "Online-Punkt",
   "online.hint": "Solange du die App oder die Seite offen hast, sehen andere einen kleinen grünen Punkt an deinem Profilbild.",
   "online.switch": "Anderen zeigen, wenn ich online bin",

diff --git a/web/src/i18n/locales/de.ts b/web/src/i18n/locales/de.ts
@@ -1108,10 +1108,11 @@ const de: Record<string, string> = {
   "presence.online": "Online",
   "sup.badge": "Danke für wertvolles Feedback in den letzten 4 Wochen",
   "sup.level2": "fleißige Hilfe",
-  "sup.level3": "eine unserer aktivsten Hilfen",
+  "sup.level3": "aktive Hilfe",
+  "sup.label": "Badge",
   "sup.profile1": "Hat uns in den letzten 4 Wochen mit Feedback geholfen",
   "sup.profile2": "Fleißige Hilfe: Feedback an 5 oder mehr Tagen in diesem Jahr, zuletzt in den letzten 4 Wochen",
-  "sup.profile3": "Eine unserer aktivsten Hilfen: Feedback an 15 oder mehr Tagen in diesem Jahr, zuletzt in den letzten 4 Wochen",
+  "sup.profile3": "Aktive Hilfe: Feedback an 15 oder mehr Tagen in diesem Jahr, zuletzt in den letzten 4 Wochen",
   "online.title": "Online-Punkt",
   "online.hint": "Solange du die App oder die Seite offen hast, sehen andere einen kleinen grünen Punkt an deinem Profilbild.",
   "online.switch": "Anderen zeigen, wenn ich online bin",

diff --git a/web/src/i18n/locales/id.ts b/web/src/i18n/locales/id.ts
@@ -950,10 +950,11 @@ const id: Record<string, string> = {
   "presence.online": "Online",
   "sup.badge": "Terima kasih atas masukan berharga dalam 4 minggu terakhir",
   "sup.level2": "penolong setia",
-  "sup.level3": "salah satu penolong paling aktif",
+  "sup.level3": "penolong aktif",
+  "sup.label": "Lencana",
   "sup.profile1": "Membantu kami dengan masukan dalam 4 minggu terakhir",
   "sup.profile2": "Penolong setia: masukan pada 5 hari atau lebih tahun ini, terakhir dalam 4 minggu terakhir",
-  "sup.profile3": "Salah satu penolong paling aktif: masukan pada 15 hari atau lebih tahun ini, terakhir dalam 4 minggu terakhir",
+  "sup.profile3": "Penolong aktif: masukan pada 15 hari atau lebih tahun ini, terakhir dalam 4 minggu terakhir",
   "online.title": "Titik online",
   "online.hint": "Selama aplikasi atau situs terbuka, orang lain melihat titik hijau kecil di foto profilmu.",
   "online.switch": "Tampilkan ke orang lain saat saya online",
